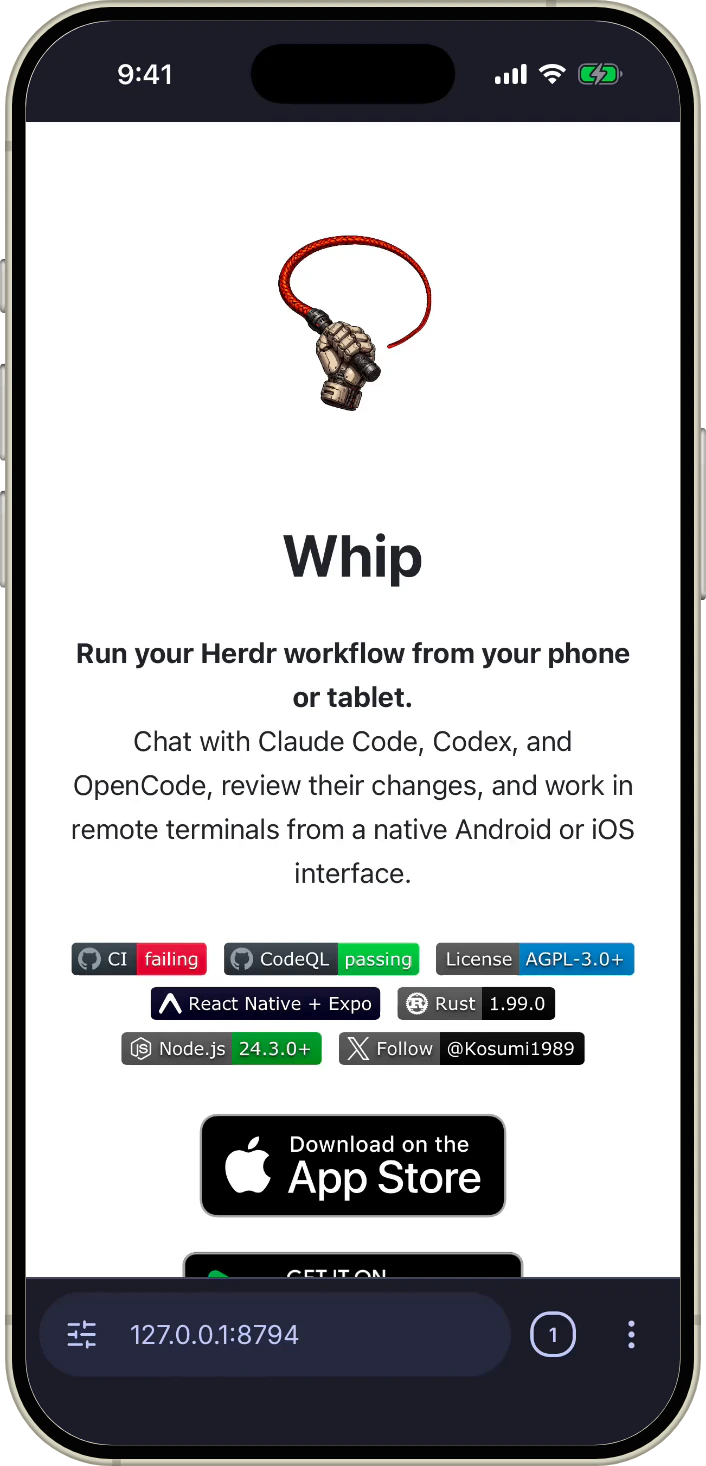
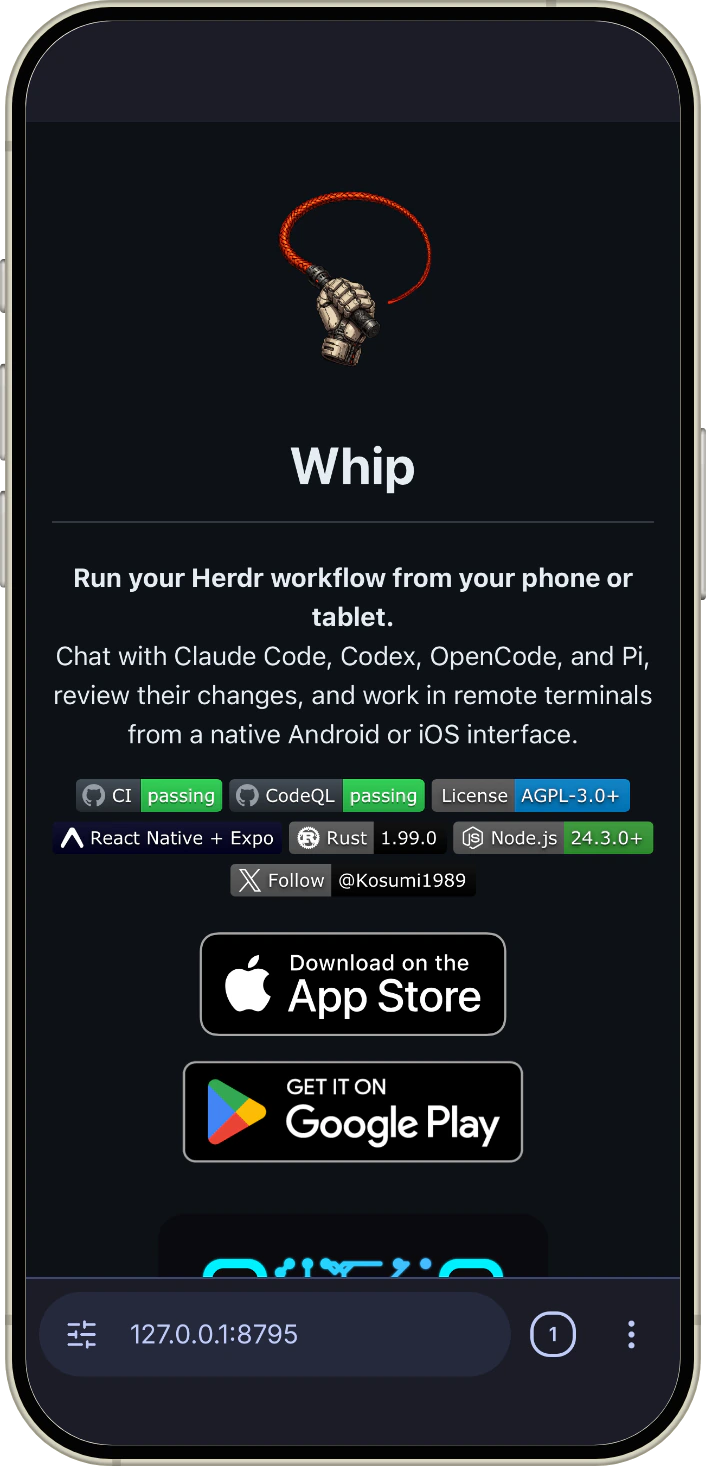
doc: refresh README previews and add voice call screen

diff --git a/scripts/generate-readme-phone-mockups.ts b/scripts/generate-readme-phone-mockups.ts
@@ -52,6 +52,7 @@ const knownScreenshotNames = [
         'markdown-preview',
         'reverse-control',
         'chat-details',
+        'voice-call',
       ]
     : []),
 ];

diff --git a/assets/screenshots/ios/README.md b/assets/screenshots/ios/README.md
@@ -1,59 +1,52 @@
 # iOS README previews
 
-The gallery uses frames from the Whip 1.9.1 launch recordings, captured on the
-configured iPhone 17 Pro simulator on `mini`, running iOS 26.5. The GitHub-channel
-arm64 Release simulator build uses commit `137bcd01`. It retains the saved
-waterfall background, glass mode, and developer Rancher appearance. These are actual
-app screens inside iPhone mockups, encoded as transparent 706×1466 WebP images.
+The gallery was refreshed on November 6, 2026 from the installed Whip 2.0.0
+arm64 simulator app on `mini`, using the configured iPhone 17 Pro running
+iOS 26.5. It retains the saved waterfall background, glass mode, and developer
+Rancher appearance. These are actual app screens inside iPhone mockups,
+encoded as transparent 706×1466 WebP images.
 The iPhone frame comes from `@sneas/telephone`; its screen opening is fitted to
 the capture's aspect ratio so the app remains proportional. The captured
 Dynamic Island is retained, and the frame's synthetic status UI is removed.
 
-The Herd capture focuses on `thinker` and its Whip space so both rails are
-visible. `chat-view.webp` shows a completed coding-agent reply with an expanded
-inline file diff. The composer contains the unsent question “What hosts do I
-have in Whip?” over that demo's completed conversation. `reverse-control.webp`
-shows the actual `hosts.list` phone-tool call and its four-host response.
-The Git preview shows a tracked CSS source change with line numbers and context
+The Herd capture focuses on `thinker` with both host and space rails visible.
+`chat-view.webp` shows a completed Codex reply with tool calls and the changed-file
+summary collapsed. The composer contains the unsent prompt “Explain this change.”, which
+was cleared after capture. Terminal, Chat View, and its composer use full-screen
+terminal mode. `reverse-control.webp` shows the per-agent Phone Use access
+switch in the Agent actions menu; the agent's access state was left unchanged.
+The Git preview shows this README refresh with line numbers and context
 controls. The terminal preview shows real coding-agent output and the mobile
-input controls. The Markdown preview opens the repository's root `README.md`.
+input controls. The Markdown preview opens the repository's root `README.md`
+at its “Use Chat View” section.
+
+`voice-call.webp` shows the global voice-call connecting screen with its message,
+microphone, speaker, and hang-up controls. `mini` had no microphone input, so
+CallKit could not activate audio for an active-call capture. The supplied API
+credential remains saved in the simulator's native credential store.
 
 The browser preview shows this README served locally on `mini` at
-`http://127.0.0.1:8794`, using Desktop WebKit with the automatic viewport.
+`http://127.0.0.1:8795`, using the saved browser preferences.
 
-## Source frames
+## Source captures
 
-All ten gallery images use the unframed 1206×2622 recordings in
-[`launch-videos/source-assets/ios/current`](../../../launch-videos/source-assets/ios/current/README.md).
-Times below are seconds within those MP4 files, before the launch film's scene
-timing or 3D phone framing is applied.
+All eleven gallery images use direct, unframed 1206×2622 PNG screenshots.
+The ten original views use `xcrun simctl io … screenshot`; the voice-call image
+uses `XCUIScreen.main.screenshot()` during call startup, selecting
+`voice-call-7.png` from the retained sequence. The originals are retained outside version
+control in `build/readme-2.0/screenshots/` under the persistent
+`/Users/kosumi/repos/whip-ios-device` worktree on `mini`, and mirrored locally
+in `.codex-readme-raw/2.0.0/`. Each PNG has the same base name as its WebP.
 
-| Preview | Recording | Time |
-| --- | --- | --- |
-| `hosts.webp` | `hosts.mp4` | 0.2 |
-| `herd.webp` | `herd.mp4` | 4.0 |
-| `chat-view.webp` | `chat.mp4` | 2.25 |
-| `chat-composer.webp` | `composer.mp4` | 1.85 |
-| `reverse-control.webp` | `reverse-control.mp4` | 1.75 |
-| `remote-files.webp` | `files.mp4` | 0.7 |
-| `git-diff.webp` | `git-diff.mp4` | 0.2 |
-| `browser.webp` | `browser.mp4` | 1.75 |
-| `terminal.webp` | `terminal.mp4` | 1.325 |
-| `markdown-preview.webp` | `readme.mp4` | 2.5 |
-
-Extract each selected frame to `.codex-readme-raw/1.9.1/` using its preview's base
-name. For example, from the repository root:
+Regenerate the current gallery from those PNGs:
 
 ```sh
-mkdir -p .codex-readme-raw/1.9.1
-nix develop -c ffmpeg -ss 0.2 \
-  -i launch-videos/source-assets/ios/current/hosts.mp4 \
-  -frames:v 1 -update 1 .codex-readme-raw/1.9.1/hosts.png
-nix develop -c npm run generate:readme-phone-mockups -- --ios .codex-readme-raw/1.9.1
+nix develop -c npm run generate:readme-phone-mockups -- --ios .codex-readme-raw/2.0.0
 ```
 
-Use the original phone recordings rather than rendered film frames so the
-gallery retains the full app resolution and receives only one device frame.
+The [launch recordings](../../../launch-videos/source-assets/ios/current/README.md)
+remain Whip 1.9.1 footage; they are no longer the source for this gallery.
+Always use unframed captures so each screenshot receives only one device frame.
 The unused `chat-details.webp` and `settings.webp` remain earlier 1.9.0 captures.
 
 ## Capture new screens
@@ -63,9 +56,10 @@ background image, and preferences. Build with
 `WHIP_DISTRIBUTION_CHANNEL=github` and an embedded production JavaScript bundle.
 Use Metro's `--max-workers 1` setting for this Nix/macOS build environment.
 
-When capturing new screens, disable app and terminal full-screen mode so the
-status bar and Dynamic Island do not cover navigation or pinned chat context.
-Restore the simulator's saved full-screen preferences after capture.
+Keep full-screen terminal mode enabled for Terminal, Chat View, and composer
+captures. Disable full-screen app mode for the other screens, and retain the
+native layout of file-preview sheets. Restore the simulator's saved full-screen
+preferences after capture.
 
 The configured simulator's existing Keychain access group is
 `52863FPC7A.io.github.kaminarios.whip`. Keep that group in the simulator
@@ -88,11 +82,11 @@ xcrun simctl io 35AF86B7-DC94-48B9-8215-82C9DE8E08F7 \
   screenshot build/readme/screenshots/hosts.png
 ```
 
-Copy the raw 1206×2622 PNGs to `.codex-readme-raw/1.9.1/` in the local checkout, then
+Copy the raw 1206×2622 PNGs to `.codex-readme-raw/2.0.0/` in the local checkout, then
 run the shared mockup generator with its iPhone preset:
 
 ```sh
-nix develop -c npm run generate:readme-phone-mockups -- --ios .codex-readme-raw/1.9.1
+nix develop -c npm run generate:readme-phone-mockups -- --ios .codex-readme-raw/2.0.0
 ```
 
 The iPhone preset preserves the raw PNGs outside version control. To regenerate

diff --git a/README.md b/README.md
@@ -102,15 +102,21 @@ We will not add first-class support for **tmux, Zellij, or Mosh**. This focus le
     <td align="center"><strong>Watch the whole herd</strong><br>Focus a host, switch spaces from the rail, and follow its attention queue.</td>
   </tr>
   <tr>
-    <td align="center"><img src="assets/screenshots/ios/chat-view.webp" alt="Whip Native Chat View with a completed agent response and an expanded inline file diff" width="320"></td>
-    <td align="center"><img src="assets/screenshots/ios/chat-composer.webp" alt="Whip native chat composer drafting a question about saved hosts, with microphone, attachment, and send controls" width="320"></td>
+    <td align="center"><img src="assets/screenshots/ios/chat-view.webp" alt="Whip full-screen Native Chat View with a completed agent response and collapsed tool calls and changed files" width="320"></td>
+    <td align="center"><img src="assets/screenshots/ios/chat-composer.webp" alt="Whip full-screen chat composer drafting a follow-up about a source change, with microphone, attachment, and send controls" width="320"></td>
   </tr>
   <tr>
     <td align="center"><strong>Native Chat View</strong><br>Follow agent replies, inspect tool calls, and review file diffs inline.</td>
     <td align="center"><strong>Chat naturally</strong><br>Write or dictate a prompt, attach a file, and send it to your agent.</td>
   </tr>
   <tr>
-    <td align="center"><img src="assets/screenshots/ios/reverse-control.webp" alt="Whip agent conversation showing the hosts.list phone-tool call and its response listing four saved hosts" width="320"></td>
+    <td colspan="2" align="center"><img src="assets/screenshots/ios/voice-call.webp" alt="Whip global voice-call connecting screen with message, microphone, speaker, and hang-up controls" width="320"></td>
+  </tr>
+  <tr>
+    <td colspan="2" align="center"><strong>Start a voice call</strong><br>Check host and agent status and coordinate your work by voice.</td>
+  </tr>
+  <tr>
+    <td align="center"><img src="assets/screenshots/ios/reverse-control.webp" alt="Whip's per-agent actions with session details and the Phone Use access switch" width="320"></td>
     <td align="center"><img src="assets/screenshots/ios/remote-files.webp" alt="Whip remote file browser showing the terminal's working directory over SFTP" width="320"></td>
   </tr>
   <tr>
@@ -118,8 +124,8 @@ We will not add first-class support for **tmux, Zellij, or Mosh**. This focus le
     <td align="center"><strong>Bring the filesystem with you</strong><br>Browse, transfer, edit, and preview remote files, including large text, Markdown, diagrams, PDF, and media.</td>
   </tr>
   <tr>
-    <td align="center"><img src="assets/screenshots/ios/git-diff.webp" alt="Whip Git diff viewer showing a real styles.css change with line numbers and context controls" width="320"></td>
-    <td align="center"><img src="assets/screenshots/ios/browser.webp" alt="Whip in-app browser displaying a local documentation preview in desktop mode with address, tab, and page controls" width="320"></td>
+    <td align="center"><img src="assets/screenshots/ios/git-diff.webp" alt="Whip Git diff viewer showing this README refresh with line numbers and context controls" width="320"></td>
+    <td align="center"><img src="assets/screenshots/ios/browser.webp" alt="Whip in-app browser displaying the current README with address, tab, and page controls" width="320"></td>
   </tr>
   <tr>
     <td align="center"><strong>Review the changes</strong><br>Read highlighted Git diffs, expand context, and draft questions for the agent from selected lines.</td>
@@ -127,7 +133,7 @@ We will not add first-class support for **tmux, Zellij, or Mosh**. This focus le
   </tr>
   <tr>
     <td align="center"><img src="assets/screenshots/ios/terminal.webp" alt="Whip remote terminal with persistent tabs and mobile input controls" width="320"></td>
-    <td align="center"><img src="assets/screenshots/ios/markdown-preview.webp" alt="Whip rendering this project's README with images, formatted text, and links" width="320"></td>
+    <td align="center"><img src="assets/screenshots/ios/markdown-preview.webp" alt="Whip rendering this project's README with formatted documentation and clickable links" width="320"></td>
   </tr>
   <tr>
     <td align="center"><strong>Work from anywhere</strong><br>Switch between warm Herdr panes or independent SSH shells with controls that adapt to the keyboard.</td>
@@ -135,7 +141,7 @@ We will not add first-class support for **tmux, Zellij, or Mosh**. This focus le
   </tr>
 </table>
 
-Captured from Whip 1.9.1 (GitHub channel, Release build) on an iPhone 17 Pro simulator running iOS 26.5, with a custom background and glass appearance. See the [capture notes](assets/screenshots/ios/README.md) for the source recordings and refresh steps.
+Captured from Whip 2.0.0 on an iPhone 17 Pro simulator running iOS 26.5, with a custom background and glass appearance. Terminal and Chat View use full-screen mode. See the [capture notes](assets/screenshots/ios/README.md) for the source captures and refresh steps.
 
 ## What you can do
 
